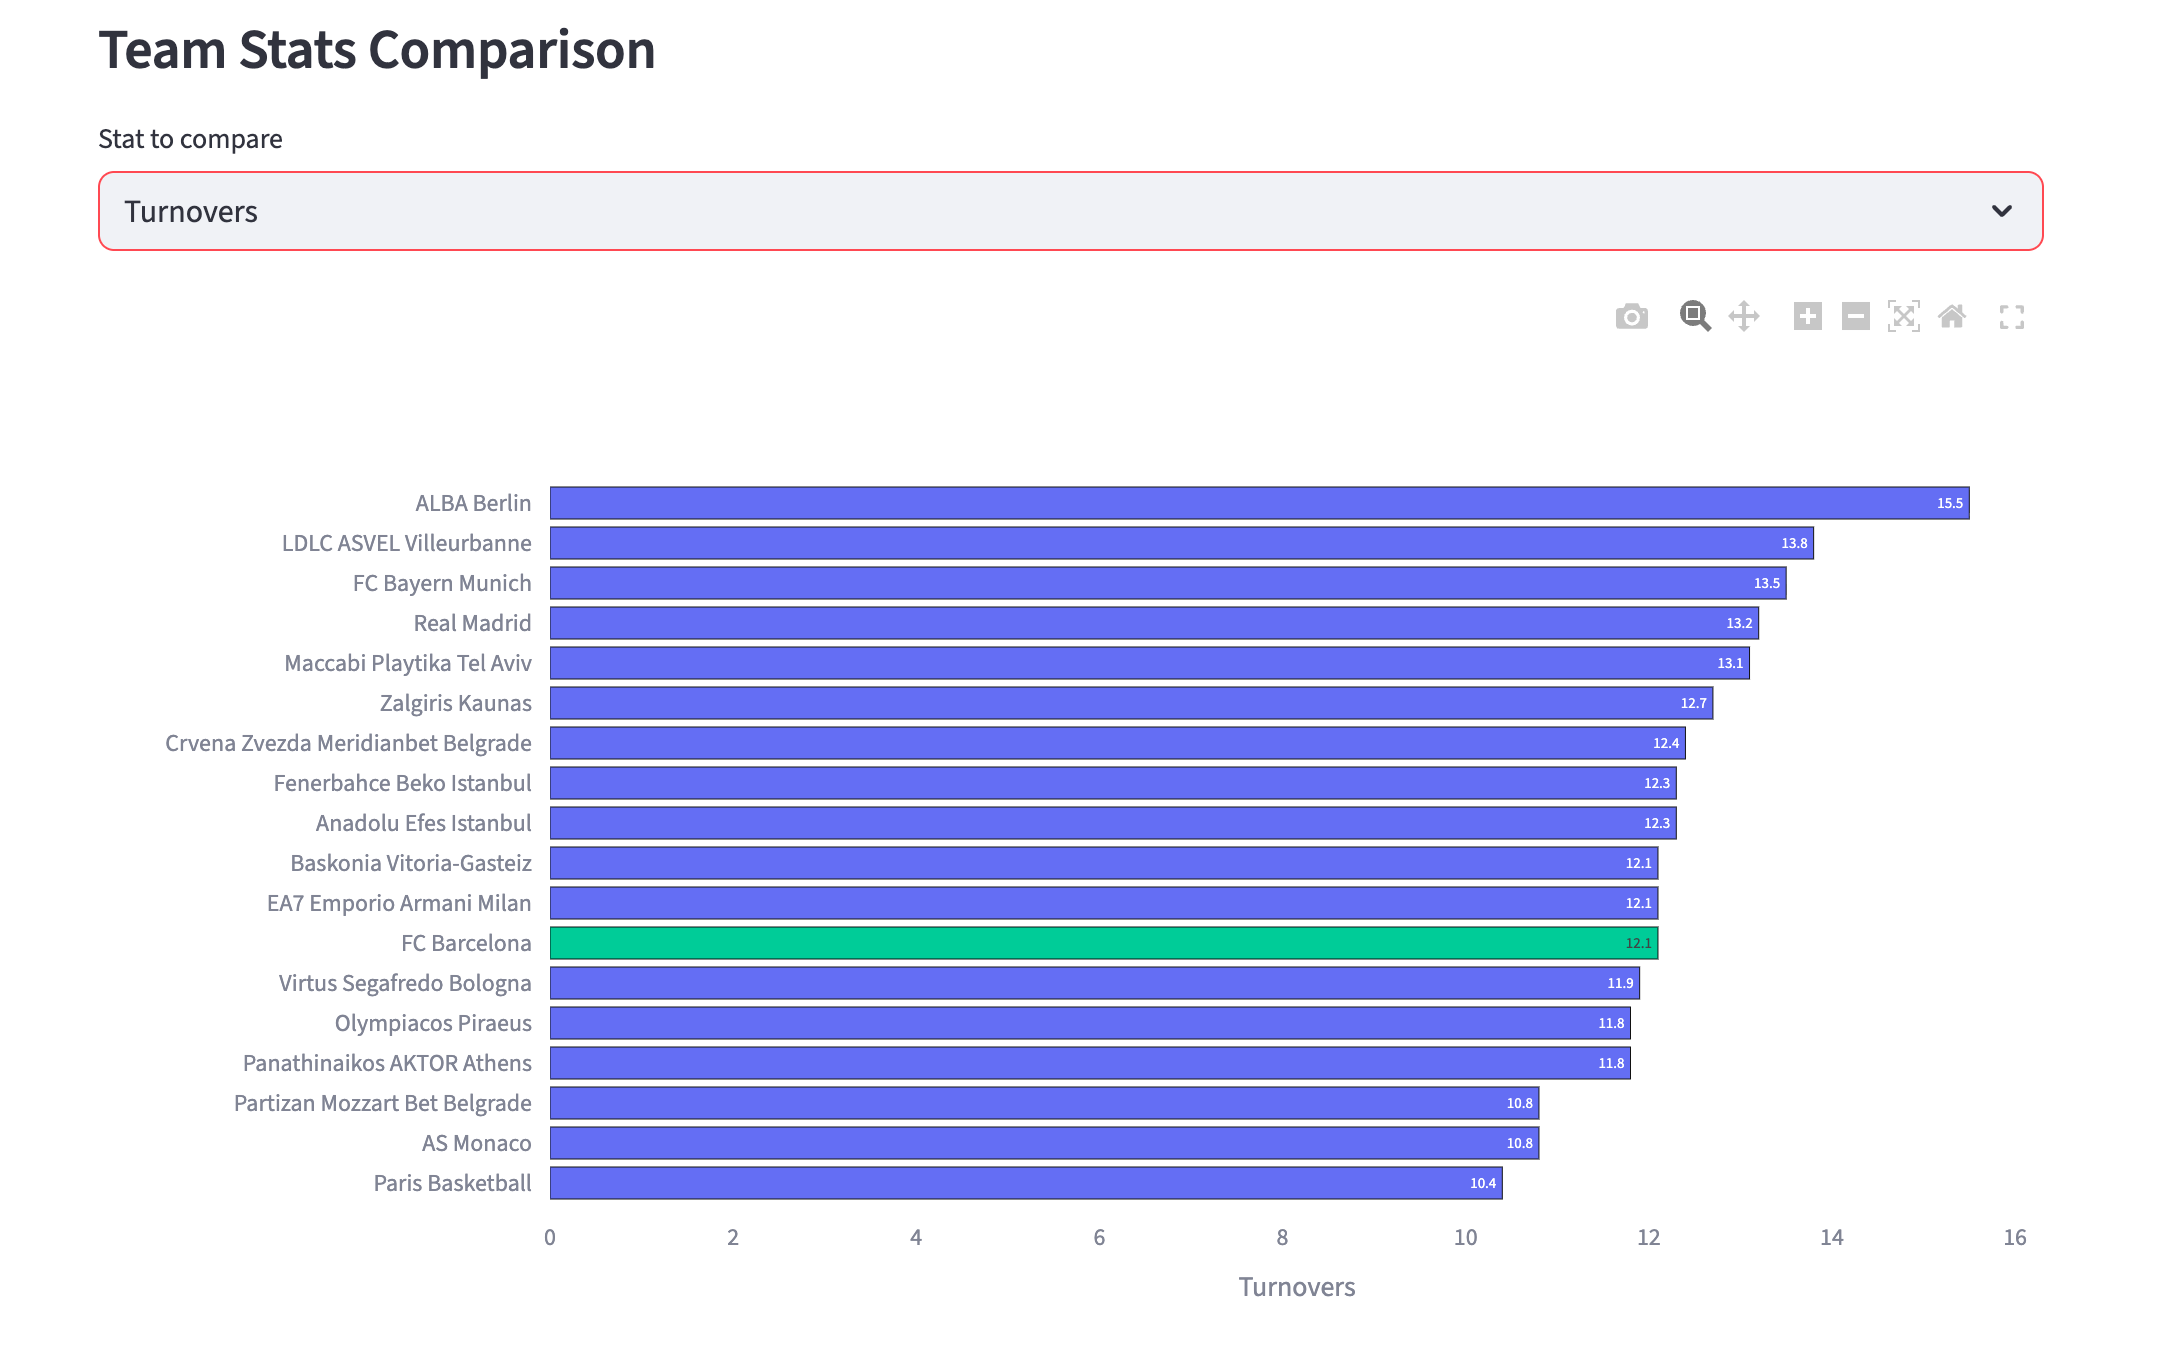
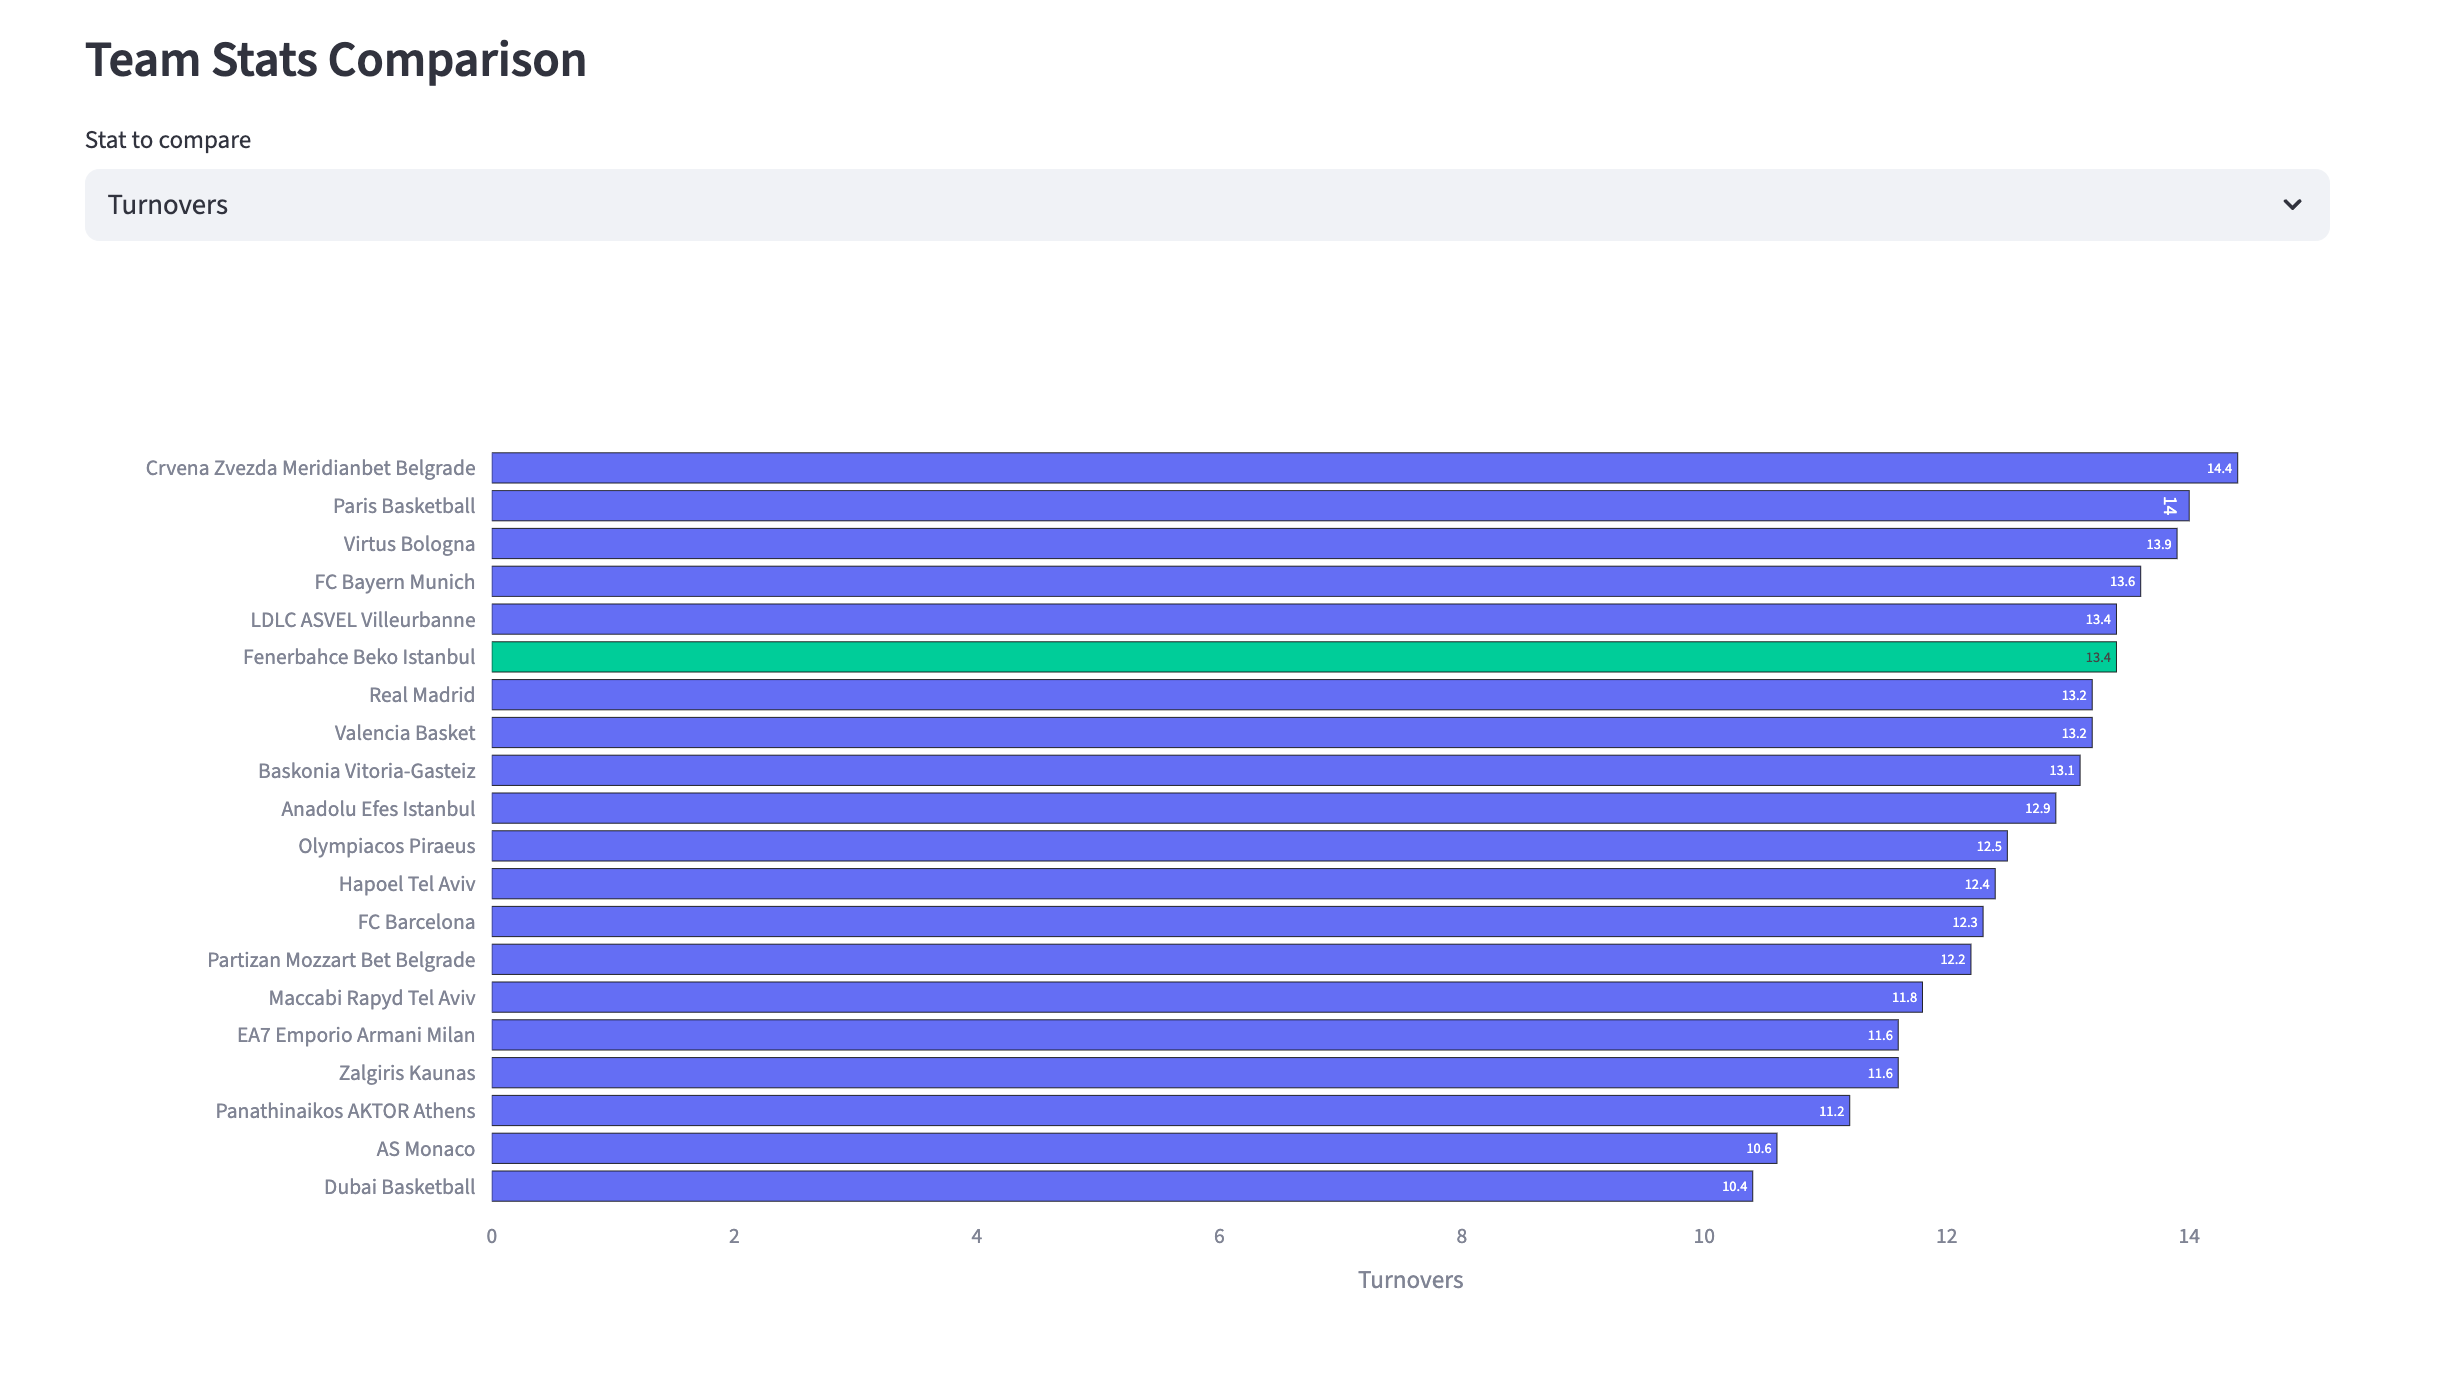
Update to 2025-26 season with live data
- Switch season from 2024 to 2025 (config, dashboard, README)
- Fix standings API: auto-retry with decreasing round numbers for mid-season
- Rename to Euroleague Analytics, add "made by Yusuf Özden"
- Update all screenshots to current 2025-26 season

diff --git a/data_pipeline.py b/data_pipeline.py
@@ -217,7 +217,9 @@ class EuroleaguePipeline:
         """Fetch league standings.
 
         Args:
-            round_number: Round to get standings for (max=34 for regular season)
+            round_number: Round to get standings for (max=34 for regular season).
+                          Auto-retries with lower rounds if the requested round
+                          doesn't exist yet (mid-season).
             endpoint: 'basicstandings', 'streaks', 'aheadbehind', 'margins'
         """
         if not HAS_API:
@@ -228,18 +230,23 @@ class EuroleaguePipeline:
         if cached is not None:
             return cached
 
-        logger.info(f"Fetching standings: round={round_number}")
-        try:
-            df = self.standings_api.get_standings(
-                season=self.season,
-                round_number=round_number,
-                endpoint=endpoint
-            )
-            self._cache_set(key, df)
-            return df
-        except Exception as e:
-            logger.error(f"Failed to fetch standings: {e}")
-            return pd.DataFrame()
+        # Try requested round, then fall back to lower rounds (for mid-season)
+        for rnd in range(round_number, 0, -1):
+            logger.info(f"Fetching standings: round={rnd}")
+            try:
+                df = self.standings_api.get_standings(
+                    season=self.season,
+                    round_number=rnd,
+                    endpoint=endpoint
+                )
+                if df is not None and not df.empty:
+                    self._cache_set(key, df)
+                    return df
+            except Exception as e:
+                if rnd == 1:
+                    logger.error(f"Failed to fetch standings: {e}")
+                continue
+        return pd.DataFrame()
 
     # ─── Shot Data ────────────────────────────────────────────
     def get_shot_data_season(self) -> pd.DataFrame:

diff --git a/dashboard.py b/dashboard.py
@@ -1,5 +1,5 @@
 """
-Euroleague Analytics Pro - Streamlit Dashboard
+Euroleague Analytics - Streamlit Dashboard
 ===============================================
 Team-first interactive dashboard. Select a team, then explore rosters,
 player performance, league standings, feature analysis, model results,
@@ -28,7 +28,7 @@ CACHE_DIR = BASE_DIR / "cache"
 PLOTLY_TEMPLATE = "plotly_dark"
 
 st.set_page_config(
-    page_title="Euroleague Analytics Pro",
+    page_title="Euroleague Analytics",
     page_icon="\U0001F3C0",
     layout="wide",
     initial_sidebar_state="expanded",
@@ -245,7 +245,7 @@ def load_scaler():
 # ---------------------------------------------------------------------------
 def _get_season_int() -> int:
     cfg = load_config()
-    return int(cfg.get("season", "2024"))
+    return int(cfg.get("season", "2025"))
 
 
 def _parse_minutes(mp_str) -> float:
@@ -292,7 +292,8 @@ def get_team_name_map(standings_df: pd.DataFrame) -> dict:
 cfg = load_config()
 season_int = _get_season_int()
 
-st.sidebar.title("\U0001F3C0 Euroleague Analytics Pro")
+st.sidebar.title("\U0001F3C0 Euroleague Analytics")
+st.sidebar.caption(f"made by Yusuf Özden")
 st.sidebar.caption(f"Season {season_int}-{season_int + 1}")
 
 # Load core data
@@ -1201,5 +1202,5 @@ PAGES = {
 PAGES[page]()
 
 st.sidebar.markdown("---")
-st.sidebar.caption("Euroleague Analytics Pro v1.0")
+st.sidebar.caption("Euroleague Analytics v1.0")
 st.sidebar.caption(f"Data: {season_int}-{season_int + 1} Season")

diff --git a/README.md b/README.md
@@ -1,4 +1,4 @@
-# Euroleague Analytics Pro
+# Euroleague Analytics
 
 End-to-end sports analytics platform with **live Euroleague API integration**, ML models, interactive Streamlit dashboard, and professional data science practices.
 
@@ -91,7 +91,7 @@ The notebook's analysis parameters are in the CONFIG cell:
 
 ```python
 CONFIG = {
-    "season": 2024,            # 2024-25 season
+    "season": 2025,            # 2025-26 season
     "player_name": "Hayes",    # Partial name match
 }
 ```
@@ -99,10 +99,10 @@ CONFIG = {
 ### CLI Data Pipeline
 
 ```bash
-python data_pipeline.py --season 2024 --action info
-python data_pipeline.py --season 2024 --player "Tavares" --action player
-python data_pipeline.py --season 2024 --action team
-python data_pipeline.py --season 2024 --action standings
+python data_pipeline.py --season 2025 --action info
+python data_pipeline.py --season 2025 --player "Tavares" --action player
+python data_pipeline.py --season 2025 --action team
+python data_pipeline.py --season 2025 --action standings
 ```
 
 ## Project Structure
